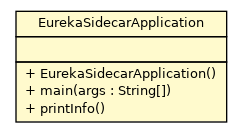
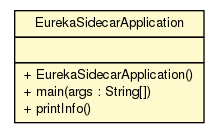
Creating site for spring-cloud-eureka-sidecar-1.0.1.U1

Changed region(s): [[0.0548, 0.0606, 0.9589, 0.9394], [0.1096, 0.6364, 0.7123, 0.8788]]

diff --git a/release/build-docker/spring-cloud-service-discovery/spring-cloud-eureka/spring-cloud-eureka-sidecar/pmd.html b/release/build-docker/spring-cloud-service-discovery/spring-cloud-eureka/spring-cloud-eureka-sidecar/pmd.html
@@ -1,6 +1,6 @@
 <!DOCTYPE html PUBLIC "-//W3C//DTD XHTML 1.0 Transitional//EN" "http://www.w3.org/TR/xhtml1/DTD/xhtml1-transitional.dtd">
 <!-- Generated by Apache Maven Doxia Site Renderer 1.7 at 2018-10-03 -->
-<html xmlns="http://www.w3.org/1999/xhtml" xml:lang="zh" lang="zh">
+<html xmlns="http://www.w3.org/1999/xhtml" xml:lang="en" lang="en">
   <head>
     <meta http-equiv="Content-Type" content="text/html; charset=UTF-8" />
     <title>PMD Results</title>
@@ -11,7 +11,7 @@
     </style>
     <link rel="stylesheet" href="./css/print.css" type="text/css" media="print" />
     <meta name="Date-Revision-yyyymmdd" content="20181003" />
-    <meta http-equiv="Content-Language" content="zh" />
+    <meta http-equiv="Content-Language" content="en" />
         
         </head>
   <body class="composite">
@@ -23,8 +23,8 @@
     <div id="breadcrumbs">
           
                 <div class="xleft">
-        <span id="publishDate">最近更新: 2018-10-03</span>
-                  &nbsp;| <span id="projectVersion">版本: 1.0.1.U1</span>
+        <span id="publishDate">Last Published: 2018-10-03</span>
+                  &nbsp;| <span id="projectVersion">Version: 1.0.1.U1</span>
                       </div>
             <div class="xright">      
       </div>
@@ -35,8 +35,8 @@
     <div id="leftColumn">
       <div id="navcolumn">
            
-                                      <a href="http://maven.apache.org/" title="构建依靠 Maven" class="poweredBy">
-        <img class="poweredBy" alt="构建依靠 Maven" src="./images/logos/maven-feather.png" />
+                                      <a href="http://maven.apache.org/" title="Built by Maven" class="poweredBy">
+        <img class="poweredBy" alt="Built by Maven" src="./images/logos/maven-feather.png" />
       </a>
                  
             </div>

diff --git a/release/build-docker/spring-cloud-service-discovery/spring-cloud-eureka/spring-cloud-eureka-sidecar/apidocs/cn/home1/cloud/netflix/eureka/EurekaSidecarApplication.html b/release/build-docker/spring-cloud-service-discovery/spring-cloud-eureka/spring-cloud-eureka-sidecar/apidocs/cn/home1/cloud/netflix/eureka/EurekaSidecarApplication.html
@@ -2,7 +2,7 @@
 <!-- NewPage -->
 <html lang="en">
 <head>
-<!-- Generated by javadoc (1.8.0_181) on Tue Oct 02 21:24:52 UTC 2018 -->
+<!-- Generated by javadoc (1.8.0_151) on Tue Oct 02 23:03:20 UTC 2018 -->
 <meta http-equiv="Content-Type" content="text/html; charset=UTF-8">
 <title>EurekaSidecarApplication (spring-cloud-eureka-sidecar 1.0.1.U1 API)</title>
 <meta name="date" content="2018-10-02">
@@ -95,8 +95,8 @@ var activeTableTab = "activeTableTab";
 <div class="subTitle">cn.home1.cloud.netflix.eureka</div>
 <h2 title="Class EurekaSidecarApplication" class="title">Class EurekaSidecarApplication</h2>
 <map id="G" name="G">
-<area shape="rect" id="node1_0" href="./EurekaSidecarApplication.html" title="cn.home1.cloud.netflix.eureka.EurekaSidecarApplication" alt="" coords="16,11,227,121"/>
-<area shape="rect" id="node1" href="./EurekaSidecarApplication.html" title="&lt;TABLE&gt;" alt="" coords="5,5,237,127"/>
+<area shape="rect" id="node1_0" href="./EurekaSidecarApplication.html" title="cn.home1.cloud.netflix.eureka.EurekaSidecarApplication" alt="" coords="15,11,204,123"/>
+<area shape="rect" id="node1" href="./EurekaSidecarApplication.html" title="&lt;TABLE&gt;" alt="" coords="4,5,215,128"/>
 </map>
 <!-- UML diagram added by UMLGraph version R5_6-24-gf6e263 (http://www.umlgraph.org/) -->
 <div align="center"><img src="EurekaSidecarApplication.png" alt="Package class diagram package EurekaSidecarApplication" usemap="#G" border=0/></div>

diff --git a/release/build-docker/spring-cloud-service-discovery/spring-cloud-eureka/spring-cloud-eureka-sidecar/apidocs/cn/home1/cloud/netflix/eureka/package-summary.html b/release/build-docker/spring-cloud-service-discovery/spring-cloud-eureka/spring-cloud-eureka-sidecar/apidocs/cn/home1/cloud/netflix/eureka/package-summary.html
@@ -2,7 +2,7 @@
 <!-- NewPage -->
 <html lang="en">
 <head>
-<!-- Generated by javadoc (1.8.0_181) on Tue Oct 02 21:24:52 UTC 2018 -->
+<!-- Generated by javadoc (1.8.0_151) on Tue Oct 02 23:03:20 UTC 2018 -->
 <meta http-equiv="Content-Type" content="text/html; charset=UTF-8">
 <title>cn.home1.cloud.netflix.eureka (spring-cloud-eureka-sidecar 1.0.1.U1 API)</title>
 <meta name="date" content="2018-10-02">
@@ -72,8 +72,8 @@
 <div class="header">
 <h1 title="Package" class="title">Package&nbsp;cn.home1.cloud.netflix.eureka</h1>
 <map id="G" name="G">
-<area shape="rect" id="node1_0" href="./EurekaSidecarApplication.html" title="cn.home1.cloud.netflix.eureka.EurekaSidecarApplication" alt="" coords="16,11,227,121"/>
-<area shape="rect" id="node1" href="./EurekaSidecarApplication.html" title="&lt;TABLE&gt;" alt="" coords="5,5,237,127"/>
+<area shape="rect" id="node1_0" href="./EurekaSidecarApplication.html" title="cn.home1.cloud.netflix.eureka.EurekaSidecarApplication" alt="" coords="15,11,204,123"/>
+<area shape="rect" id="node1" href="./EurekaSidecarApplication.html" title="&lt;TABLE&gt;" alt="" coords="4,5,215,128"/>
 </map>
 <!-- UML diagram added by UMLGraph version R5_6-24-gf6e263 (http://www.umlgraph.org/) -->
 <div align="center"><img src="cn.home1.cloud.netflix.eureka.png" alt="Package class diagram package cn.home1.cloud.netflix.eureka" usemap="#G" border=0/></div>

diff --git a/release/build-docker/spring-cloud-service-discovery/spring-cloud-eureka/spring-cloud-eureka-sidecar/checkstyle.html b/release/build-docker/spring-cloud-service-discovery/spring-cloud-eureka/spring-cloud-eureka-sidecar/checkstyle.html
@@ -124,7 +124,7 @@
         <div id="bodyColumn"  class="span10" >
 <div class="section">
 <h2><a name="Checkstyle_Results"></a>Checkstyle Results</h2>
-<p>The following document contains the results of <a class="externalLink" href="http://checkstyle.sourceforge.net/">Checkstyle</a> 8.10 with https://gitlab.com/ci-and-cd/maven-build/raw/develop/src/main/checkstyle/google_checks_8.10.xml ruleset.&#160;<a href="checkstyle.rss"><img alt="rss feed" src="images/rss.png" /></a></p></div>
+<p>The following document contains the results of <a class="externalLink" href="http://checkstyle.sourceforge.net/">Checkstyle</a> 8.10 with https://github.com/ci-and-cd/maven-build/raw/develop/src/main/checkstyle/google_checks_8.10.xml ruleset.&#160;<a href="checkstyle.rss"><img alt="rss feed" src="images/rss.png" /></a></p></div>
 <div class="section">
 <h2><a name="Summary"></a>Summary</h2>
 <table border="0" class="table table-striped">

diff --git a/release/build-docker/spring-cloud-service-discovery/spring-cloud-eureka/spring-cloud-eureka-sidecar/apidocs/cn/home1/cloud/netflix/eureka/class-use/EurekaSidecarApplication.html b/release/build-docker/spring-cloud-service-discovery/spring-cloud-eureka/spring-cloud-eureka-sidecar/apidocs/cn/home1/cloud/netflix/eureka/class-use/EurekaSidecarApplication.html
@@ -2,7 +2,7 @@
 <!-- NewPage -->
 <html lang="en">
 <head>
-<!-- Generated by javadoc (1.8.0_181) on Tue Oct 02 21:24:52 UTC 2018 -->
+<!-- Generated by javadoc (1.8.0_151) on Tue Oct 02 23:03:20 UTC 2018 -->
 <meta http-equiv="Content-Type" content="text/html; charset=UTF-8">
 <title>Uses of Class cn.home1.cloud.netflix.eureka.EurekaSidecarApplication (spring-cloud-eureka-sidecar 1.0.1.U1 API)</title>
 <meta name="date" content="2018-10-02">

diff --git a/release/build-docker/spring-cloud-service-discovery/spring-cloud-eureka/spring-cloud-eureka-sidecar/apidocs/cn/home1/cloud/netflix/eureka/package-tree.html b/release/build-docker/spring-cloud-service-discovery/spring-cloud-eureka/spring-cloud-eureka-sidecar/apidocs/cn/home1/cloud/netflix/eureka/package-tree.html
@@ -2,7 +2,7 @@
 <!-- NewPage -->
 <html lang="en">
 <head>
-<!-- Generated by javadoc (1.8.0_181) on Tue Oct 02 21:24:52 UTC 2018 -->
+<!-- Generated by javadoc (1.8.0_151) on Tue Oct 02 23:03:20 UTC 2018 -->
 <meta http-equiv="Content-Type" content="text/html; charset=UTF-8">
 <title>cn.home1.cloud.netflix.eureka Class Hierarchy (spring-cloud-eureka-sidecar 1.0.1.U1 API)</title>
 <meta name="date" content="2018-10-02">

diff --git a/release/build-docker/spring-cloud-service-discovery/spring-cloud-eureka/spring-cloud-eureka-sidecar/apidocs/cn/home1/cloud/netflix/eureka/package-use.html b/release/build-docker/spring-cloud-service-discovery/spring-cloud-eureka/spring-cloud-eureka-sidecar/apidocs/cn/home1/cloud/netflix/eureka/package-use.html
@@ -2,7 +2,7 @@
 <!-- NewPage -->
 <html lang="en">
 <head>
-<!-- Generated by javadoc (1.8.0_181) on Tue Oct 02 21:24:52 UTC 2018 -->
+<!-- Generated by javadoc (1.8.0_151) on Tue Oct 02 23:03:20 UTC 2018 -->
 <meta http-equiv="Content-Type" content="text/html; charset=UTF-8">
 <title>Uses of Package cn.home1.cloud.netflix.eureka (spring-cloud-eureka-sidecar 1.0.1.U1 API)</title>
 <meta name="date" content="2018-10-02">

diff --git a/release/build-docker/spring-cloud-service-discovery/spring-cloud-eureka/spring-cloud-eureka-sidecar/apidocs/cn/home1/cloud/netflix/eureka/package-frame.html b/release/build-docker/spring-cloud-service-discovery/spring-cloud-eureka/spring-cloud-eureka-sidecar/apidocs/cn/home1/cloud/netflix/eureka/package-frame.html
@@ -2,7 +2,7 @@
 <!-- NewPage -->
 <html lang="en">
 <head>
-<!-- Generated by javadoc (1.8.0_181) on Tue Oct 02 21:24:52 UTC 2018 -->
+<!-- Generated by javadoc (1.8.0_151) on Tue Oct 02 23:03:20 UTC 2018 -->
 <meta http-equiv="Content-Type" content="text/html; charset=UTF-8">
 <title>cn.home1.cloud.netflix.eureka (spring-cloud-eureka-sidecar 1.0.1.U1 API)</title>
 <meta name="date" content="2018-10-02">

diff --git a/release/build-docker/spring-cloud-service-discovery/spring-cloud-eureka/spring-cloud-eureka-sidecar/apidocs/constant-values.html b/release/build-docker/spring-cloud-service-discovery/spring-cloud-eureka/spring-cloud-eureka-sidecar/apidocs/constant-values.html
@@ -2,7 +2,7 @@
 <!-- NewPage -->
 <html lang="en">
 <head>
-<!-- Generated by javadoc (1.8.0_181) on Tue Oct 02 21:24:52 UTC 2018 -->
+<!-- Generated by javadoc (1.8.0_151) on Tue Oct 02 23:03:20 UTC 2018 -->
 <meta http-equiv="Content-Type" content="text/html; charset=UTF-8">
 <title>Constant Field Values (spring-cloud-eureka-sidecar 1.0.1.U1 API)</title>
 <meta name="date" content="2018-10-02">

diff --git a/release/build-docker/spring-cloud-service-discovery/spring-cloud-eureka/spring-cloud-eureka-sidecar/apidocs/deprecated-list.html b/release/build-docker/spring-cloud-service-discovery/spring-cloud-eureka/spring-cloud-eureka-sidecar/apidocs/deprecated-list.html
@@ -2,7 +2,7 @@
 <!-- NewPage -->
 <html lang="en">
 <head>
-<!-- Generated by javadoc (1.8.0_181) on Tue Oct 02 21:24:52 UTC 2018 -->
+<!-- Generated by javadoc (1.8.0_151) on Tue Oct 02 23:03:20 UTC 2018 -->
 <meta http-equiv="Content-Type" content="text/html; charset=UTF-8">
 <title>Deprecated List (spring-cloud-eureka-sidecar 1.0.1.U1 API)</title>
 <meta name="date" content="2018-10-02">

diff --git a/release/build-docker/spring-cloud-service-discovery/spring-cloud-eureka/spring-cloud-eureka-sidecar/apidocs/overview-tree.html b/release/build-docker/spring-cloud-service-discovery/spring-cloud-eureka/spring-cloud-eureka-sidecar/apidocs/overview-tree.html
@@ -2,7 +2,7 @@
 <!-- NewPage -->
 <html lang="en">
 <head>
-<!-- Generated by javadoc (1.8.0_181) on Tue Oct 02 21:24:52 UTC 2018 -->
+<!-- Generated by javadoc (1.8.0_151) on Tue Oct 02 23:03:20 UTC 2018 -->
 <meta http-equiv="Content-Type" content="text/html; charset=UTF-8">
 <title>Class Hierarchy (spring-cloud-eureka-sidecar 1.0.1.U1 API)</title>
 <meta name="date" content="2018-10-02">

diff --git a/release/build-docker/spring-cloud-service-discovery/spring-cloud-eureka/spring-cloud-eureka-sidecar/dependency-convergence.html b/release/build-docker/spring-cloud-service-discovery/spring-cloud-eureka/spring-cloud-eureka-sidecar/dependency-convergence.html
@@ -137,13 +137,13 @@
 </caption>
 <tr class="a">
 <th>Number of modules:</th>
-<td>5</td></tr>
+<td>7</td></tr>
 <tr class="b">
 <th>Number of dependencies (NOD):</th>
-<td>175</td></tr>
+<td>207</td></tr>
 <tr class="a">
 <th>Number of unique artifacts (NOA):</th>
-<td>175</td></tr>
+<td>207</td></tr>
 <tr class="b">
 <th>Number of version-conflicting artifacts (NOC):</th>
 <td>0</td></tr>
